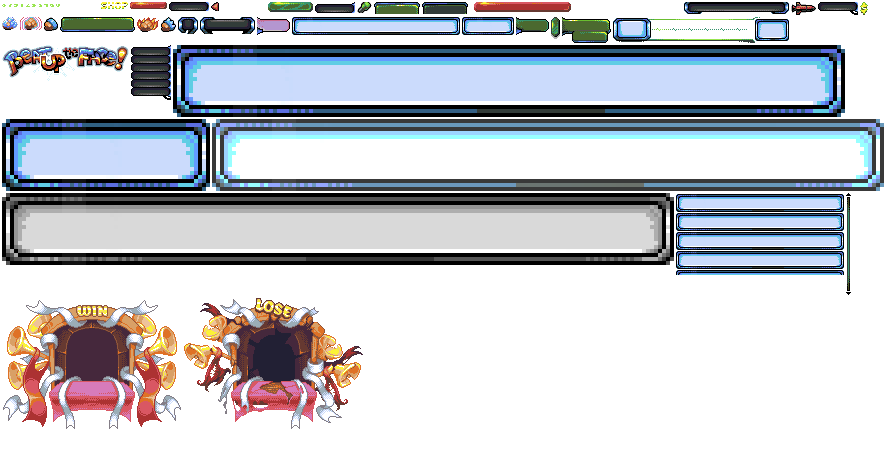
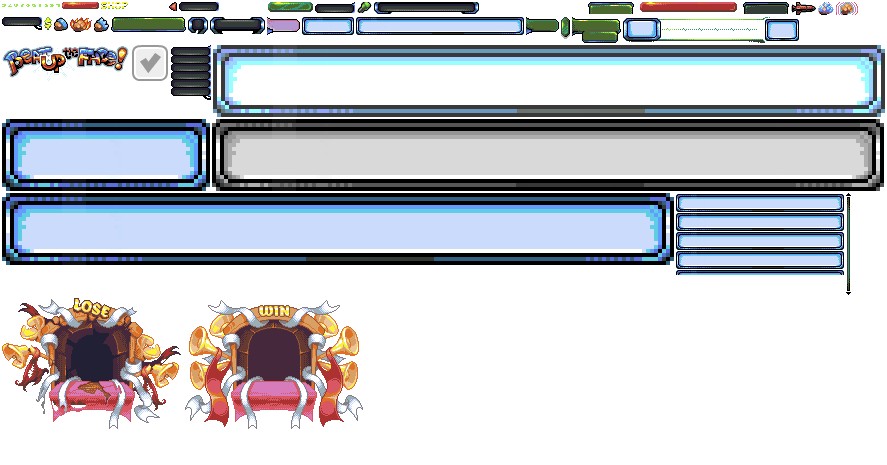
menu item's image gets replaced with a checkmark if its bought

diff --git a/Classes/NuMenu.cpp b/Classes/NuMenu.cpp
@@ -64,7 +64,13 @@ bool NuMenu::init()
         cost_lbl->setString(cost_str);
 
 
-        std::function<void(float)> update_func = [cost_lbl, cost_str, menu_item, this, building ](float dt) {
+        std::function<void(float)> update_func = [item_icon, cost_lbl, cost_str, menu_item, this, building ](float dt) {
+            if (building->get_been_bought()) 
+            {
+                //TODO make this not happen all the time, or check that its not the same image
+                item_icon->loadTexture("grey_boxCheckmark.png", ui::TextureResType::PLIST);
+            };
+
             int cost = std::atoi(cost_str.c_str());
 
             if (this->beatup->get_total_coins() < cost)
